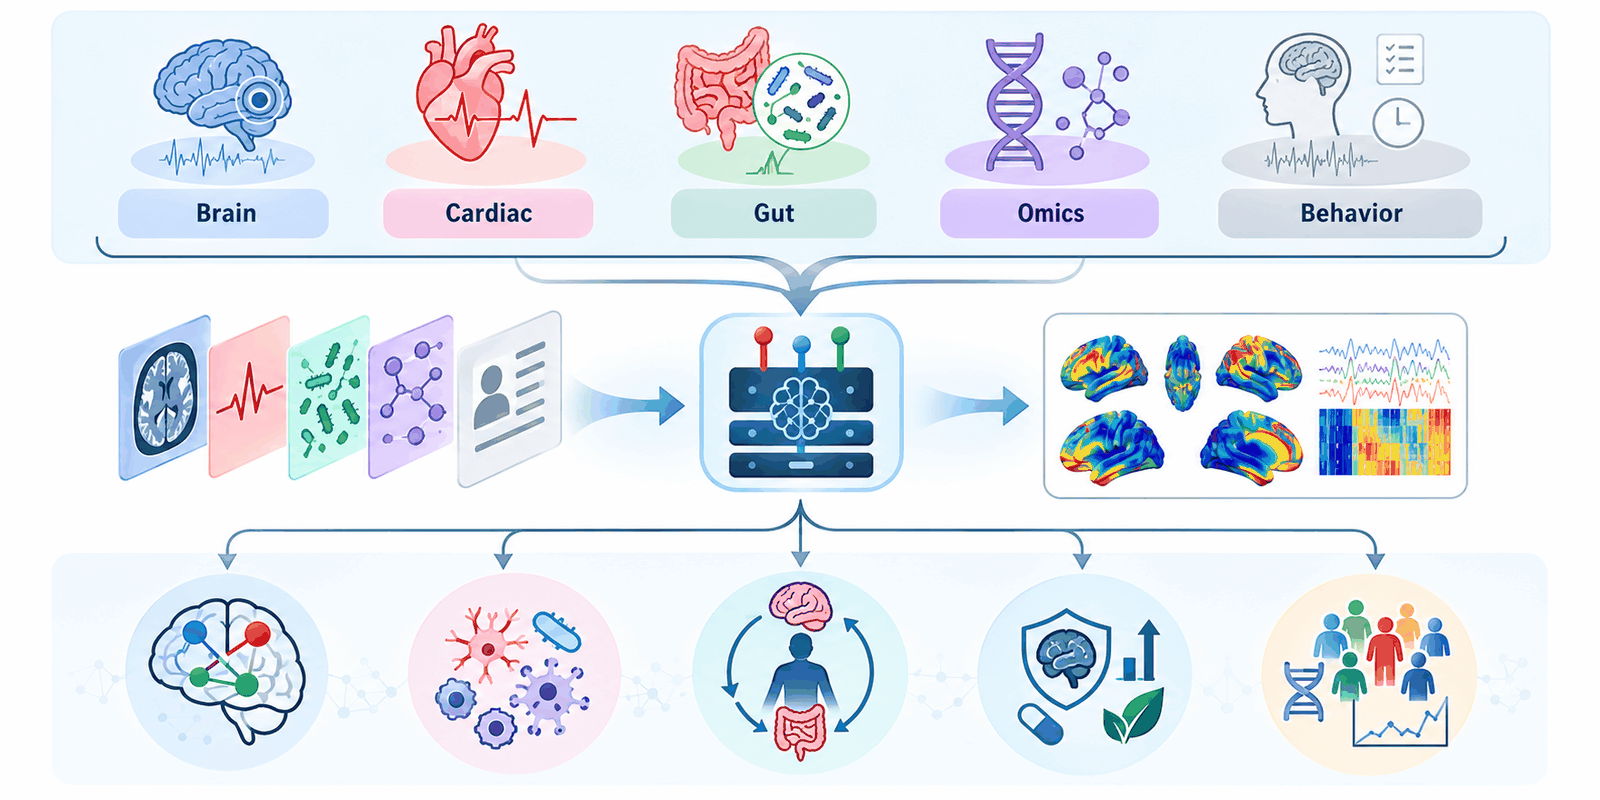
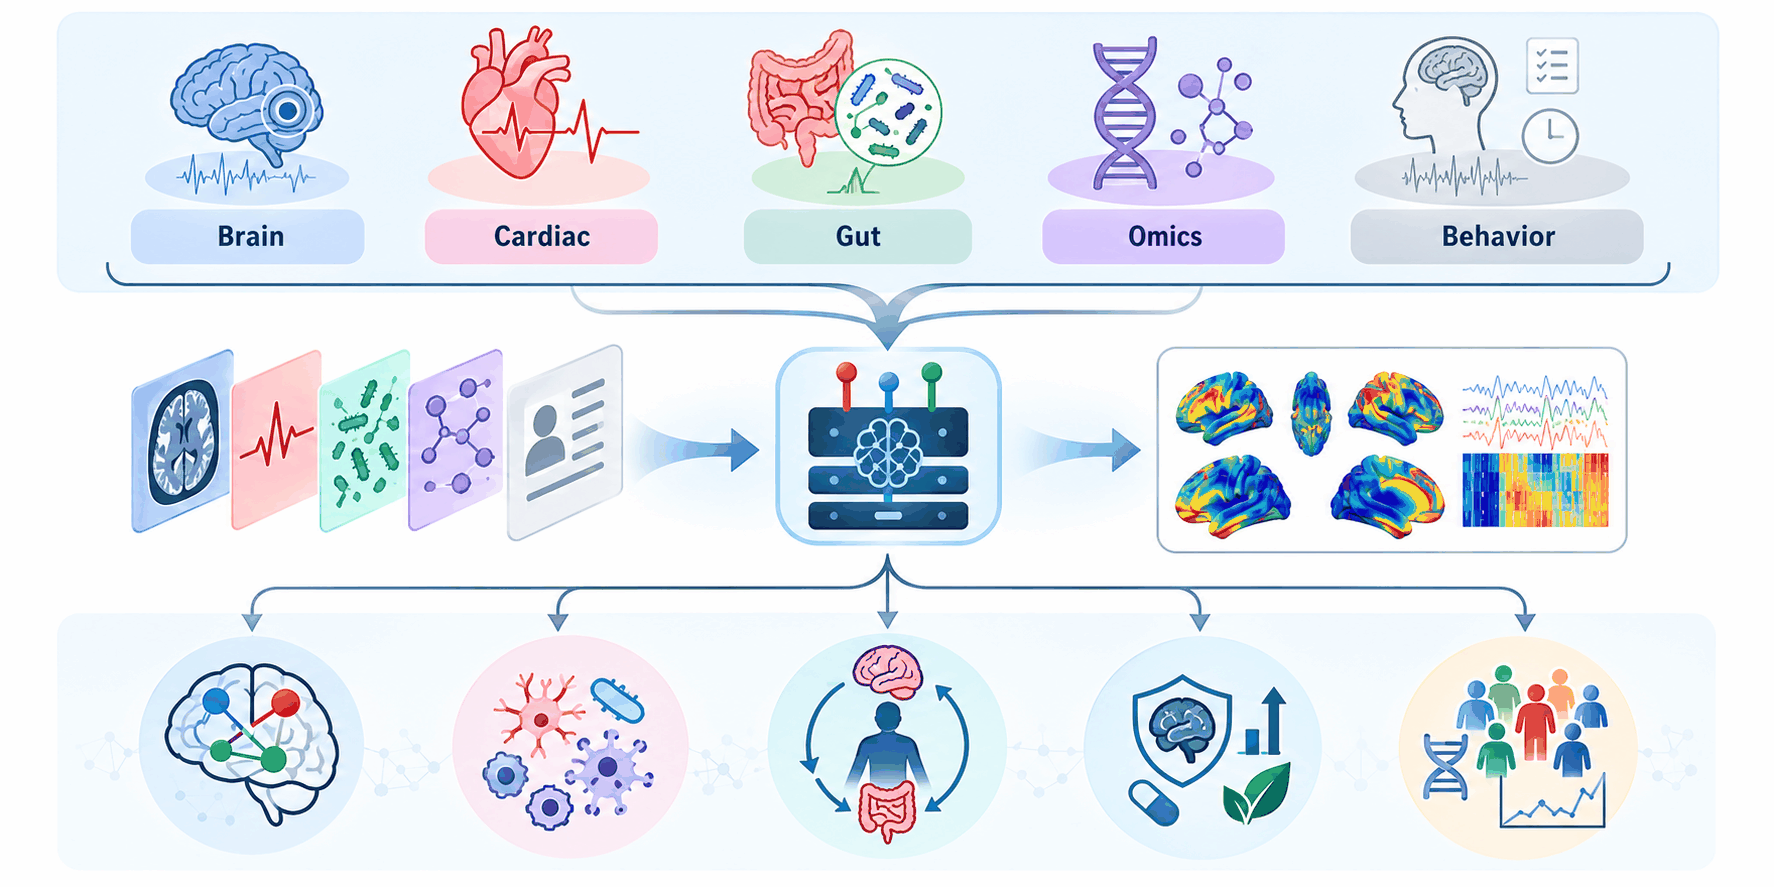
Give each direction figure the full card width
The two-column text/figure card starved the figure: with the 272px fixed
sidebar plus a 19rem text column, the image rendered at 760px on a wide
screen and collapsed to 520px at 1280 and 240px at 1000, so the
schematics were never really readable.

Stack each card instead -- eyebrow, title, question, then the figure
across the full content width, note last. Figures now render at 1080px
wide (840 at 1280, 560 at 1000), and are re-exported at the native
1774px so they stay sharp on high-DPI screens.

diff --git a/index.html b/index.html
@@ -382,66 +382,58 @@
 
                     <div class="future-grid">
                         <article class="future-card">
-                            <div class="future-text">
-                                <div class="future-index">01 &middot; BODY &rarr; BRAIN</div>
-                                <h3>Brain&ndash;Multi-Organ Intelligence</h3>
-                                <p class="future-q">
-                                    How do metabolic, immune, cardiovascular, microbial and behavioral systems shape
-                                    individual brain trajectories?
-                                </p>
-                                <div class="future-note">
-                                    Ongoing:
-                                    <a href="https://doi.org/10.2139/ssrn.6724545" target="_blank" rel="noopener">DietBERT</a>
-                                    &mdash; linking real-world dietary behavior to immune, metabolic and mental phenotypes.
-                                </div>
-                            </div>
+                            <div class="future-index">01 &middot; BODY &rarr; BRAIN</div>
+                            <h3>Brain&ndash;Multi-Organ Intelligence</h3>
+                            <p class="future-q">
+                                How do metabolic, immune, cardiovascular, microbial and behavioral systems shape
+                                individual brain trajectories?
+                            </p>
                             <figure class="future-figure">
                                 <a title="Open the full-size figure" href="assets/img/future/direction1_multiorgan.png" target="_blank" rel="noopener">
-                                    <img src="assets/img/future/direction1_multiorgan.png" alt="Brain, cardiac, gut, omics and behavioral data are fused by a joint model to produce brain phenotypes, supporting work on connectome mechanisms, neuroimmune pathways, brain-gut crosstalk, prevention and population stratification." loading="lazy" width="1600" height="800" />
+                                    <img src="assets/img/future/direction1_multiorgan.png" alt="Brain, cardiac, gut, omics and behavioral data are fused by a joint model to produce brain phenotypes, supporting work on connectome mechanisms, neuroimmune pathways, brain-gut crosstalk, prevention and population stratification." loading="lazy" width="1774" height="887" />
                                 </a>
                                 <figcaption>Multi-organ data &rarr; joint modeling &rarr; individual brain phenotypes.</figcaption>
                             </figure>
-                        </article>
-
-                        <article class="future-card">
-                            <div class="future-text">
-                                <div class="future-index">02 &middot; BRAIN &rarr; MIND</div>
-                                <h3>Computational Origins of Cognition &amp; Emotion</h3>
-                                <p class="future-q">
-                                    Why does the same experience produce different memories, interpretations and emotional
-                                    responses?
-                                </p>
-                                <div class="future-note">
-                                    Brain &harr; LLM comparisons &middot; reconstructive intelligence &middot; cognitive and affective
-                                    heterogeneity.
-                                </div>
+                            <div class="future-note">
+                                Ongoing:
+                            <a href="https://doi.org/10.2139/ssrn.6724545" target="_blank" rel="noopener">DietBERT</a>
+                            &mdash; linking real-world dietary behavior to immune, metabolic and mental phenotypes.
                             </div>
+                        </article>
+                        <article class="future-card">
+                            <div class="future-index">02 &middot; BRAIN &rarr; MIND</div>
+                            <h3>Computational Origins of Cognition &amp; Emotion</h3>
+                            <p class="future-q">
+                                Why does the same experience produce different memories, interpretations and
+                                emotional responses?
+                            </p>
                             <figure class="future-figure">
                                 <a title="Open the full-size figure" href="assets/img/future/direction2_cognition.png" target="_blank" rel="noopener">
-                                    <img src="assets/img/future/direction2_cognition.png" alt="Four-step pipeline: public task fMRI data, a matched human-LLM task, brain-model representational alignment, and testable failure modes of memory and reconstruction." loading="lazy" width="1600" height="800" />
+                                    <img src="assets/img/future/direction2_cognition.png" alt="Four-step pipeline: public task fMRI data, a matched human-LLM task, brain-model representational alignment, and testable failure modes of memory and reconstruction." loading="lazy" width="1774" height="887" />
                                 </a>
                                 <figcaption>Toward a testable computational account of representation, memory and reconstruction.</figcaption>
                             </figure>
-                        </article>
-
-                        <article class="future-card">
-                            <div class="future-text">
-                                <div class="future-index">03 &middot; AI &rarr; DISCOVERY</div>
-                                <h3>Agent Neuroimager</h3>
-                                <p class="future-q">
-                                    Can self-improving AI scientists autonomously formulate and test hypotheses about the
-                                    human brain?
-                                </p>
-                                <div class="future-note">
-                                    Autonomous research agents for large-scale neuroimaging and multi-omics discovery.
-                                </div>
+                            <div class="future-note">
+                                Brain &harr; LLM comparisons &middot; reconstructive intelligence &middot; cognitive and affective
+                            heterogeneity.
                             </div>
+                        </article>
+                        <article class="future-card">
+                            <div class="future-index">03 &middot; AI &rarr; DISCOVERY</div>
+                            <h3>Agent Neuroimager</h3>
+                            <p class="future-q">
+                                Can self-improving AI scientists autonomously formulate and test hypotheses about the
+                                human brain?
+                            </p>
                             <figure class="future-figure">
                                 <a title="Open the full-size figure" href="assets/img/future/direction3_agent.png" target="_blank" rel="noopener">
-                                    <img src="assets/img/future/direction3_agent.png" alt="A six-stage closed loop run by a self-improving agent: hypothesis generation, data search across OpenNeuro, ADNI and UK Biobank, automated processing, analysis and validation, results and interpretation, then the next hypothesis." loading="lazy" width="1600" height="648" />
+                                    <img src="assets/img/future/direction3_agent.png" alt="A six-stage closed loop run by a self-improving agent: hypothesis generation, data search across OpenNeuro, ADNI and UK Biobank, automated processing, analysis and validation, results and interpretation, then the next hypothesis." loading="lazy" width="1774" height="719" />
                                 </a>
                                 <figcaption>A closed discovery loop that keeps improving from its own experiments.</figcaption>
                             </figure>
+                            <div class="future-note">
+                                Autonomous research agents for large-scale neuroimaging and multi-omics discovery.
+                            </div>
                         </article>
                     </div>
                 </div>

diff --git a/css/site.css b/css/site.css
@@ -599,15 +599,11 @@ section.resume-section {
 
 .future-grid {
     display: grid;
-    gap: 1.75rem;
+    gap: 2rem;
 }
 
 .future-card {
     position: relative;
-    display: grid;
-    grid-template-columns: minmax(0, 19rem) minmax(0, 1fr);
-    gap: 2rem;
-    align-items: stretch;
     padding: 2.1rem 1.7rem 1.9rem;
     border: 1px solid var(--rule-strong);
     border-radius: 14px;
@@ -626,12 +622,6 @@ section.resume-section {
 .future-card:hover {
     transform: translateY(-3px);
     box-shadow: var(--shadow-md);
-}
-
-.future-text {
-    display: flex;
-    flex-direction: column;
-    align-self: center;
 }
 
 .future-index {
@@ -653,11 +643,12 @@ section.resume-section {
 .future-q {
     color: var(--ink-soft);
     font-size: 1rem;
-    margin-bottom: 1.2rem;
+    max-width: 46rem;
+    margin-bottom: 0;
 }
 
 .future-note {
-    margin-top: 1.3rem;
+    margin-top: 1.4rem;
     padding-top: 1rem;
     border-top: 1px dashed var(--rule);
     font-size: 0.87rem;
@@ -667,8 +658,7 @@ section.resume-section {
 /* --- direction schematics ------------------------------------------------ */
 
 .future-figure {
-    margin: 0;
-    align-self: center;
+    margin: 1.6rem 0 0;
     min-width: 0;
 }
 .future-figure a {
@@ -682,7 +672,7 @@ section.resume-section {
     border: 1px solid var(--rule);
     border-radius: 10px;
     background: #fff;
-    padding: 6px;
+    padding: 8px;
     box-shadow: var(--shadow-sm);
     transition: box-shadow 0.2s ease;
 }
@@ -698,10 +688,12 @@ section.resume-section {
     color: var(--ink-faint);
 }
 
-@media (max-width: 991.98px) {
+@media (max-width: 575.98px) {
     .future-card {
-        grid-template-columns: minmax(0, 1fr);
-        gap: 1.5rem;
+        padding: 1.8rem 1.1rem 1.5rem;
+    }
+    .future-figure img {
+        padding: 5px;
     }
 }
 
